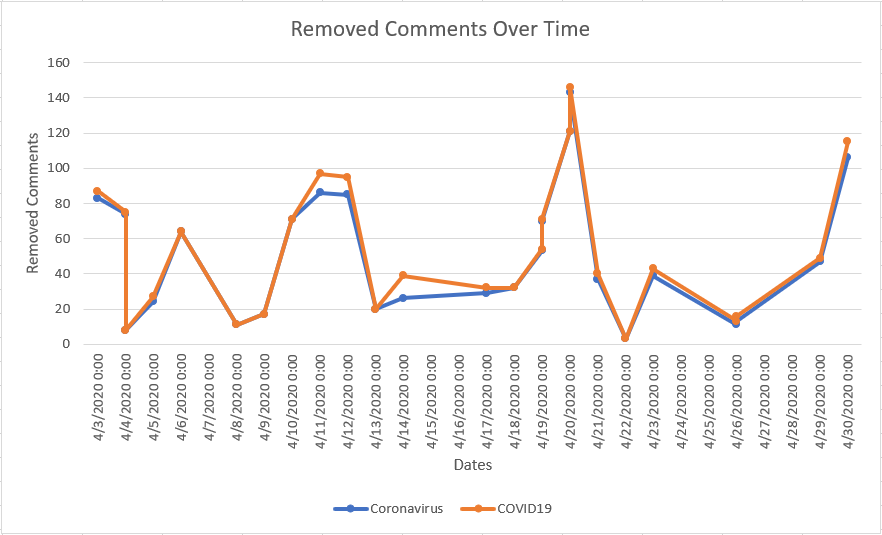
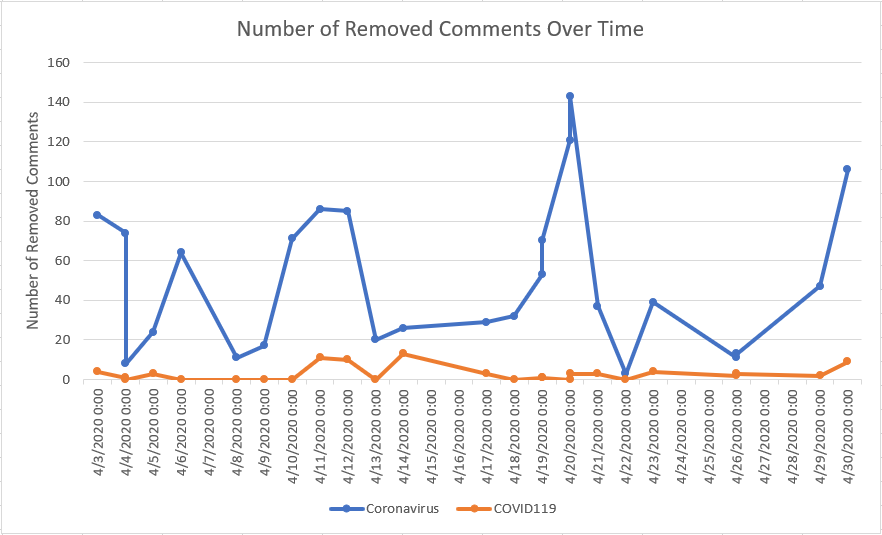
Updates with fixed graphs

Changed region(s): [[0.0306, 0.1495, 0.9796, 0.8972], [0.2449, 0.0299, 0.7347, 0.0897], [0.3673, 0.9271, 0.6429, 0.957]]

diff --git a/outline.md b/outline.md
@@ -37,7 +37,7 @@ In order to start pulling data from Reddit I first needed to decide where to pul
 subreddits = [reddit.subreddit('coronavirus').top('month', limit=25), reddit.subreddit('COVID19').top('month', limit=25)]
 ```
 The ```subreddit()``` function retuns an instance of subreddit requested by name. The ```top()``` function, when provided with a timeframe and post limit, returns a list of posts, or submissions, meeting that specification. The other options for this type of data mining are ```hot()``` or ```new()```.  I presumed that the top posts would give a more indicative sample.
-I selected the top 25 posts from the past month from each subreddit. This covers the month of April and would have given each post time to collect a decent amount of comments. I pulled  posts with as few as a couple hundred comments, to as many as multiple thousands of comments. My estimation was that this was a wide enough range of time and popularity to be a statistically significant sample to analyze.
+I selected the top 25 posts from the past month from each subreddit. This covers the month of April and would have given each post time to collect a decent amount of comments. I pulled  posts with as few as 42 comments, to as many as 5707 comments. My estimation was that this was a wide enough range of time and popularity to be a statistically significant sample to analyze.
 
 I used a nested loop to iterate through first the subreddits in my list, and then the posts (submissions) on each subreddit. 
 ```python
@@ -122,8 +122,14 @@ These data were then output to a .txt file using ```json.dumps()``` for a nicely
  ### Hypothesis: 
  There are more posts removed due to misinformation in the r\COVID-19 subreddit than the r\coronavirus subreddit.
  
+ #### Analysis
+ I graphed the number of removed comments for each of the subreddits over the time period in which they were posted. 
+ 
 ![png](https://github.com/degeusgk/IA626-Final-Project/blob/master/Removed_Comments_Over_Time.png)
+
+
+
+
 ![png](https://github.com/degeusgk/IA626-Final-Project/blob/master/Percent_Removed_Comments_Over_Time.png)
- 
- 
+
  ### Conclusions:
